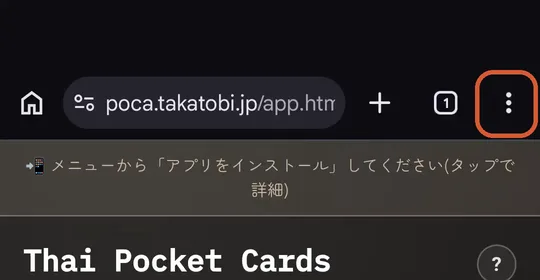
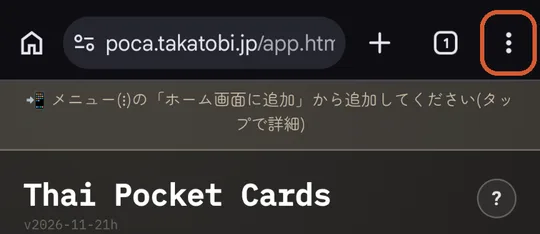
LP: Androidの手順2の画像を新しい案内文の画面に差し替え
Claude-Session: https://claude.ai/code/session_01943EUCWJXEw4xvu6FgakSF

diff --git a/lp.html b/lp.html
@@ -492,7 +492,7 @@ footer .copyright{color:var(--muted-dark);}
       <div class="tab-panel" id="tab-android">
         <div class="steps">
           <div class="step"><div class="step-num">1</div><div class="step-body"><p>ChromeでThai Pocaを開く</p></div></div>
-          <div class="step"><div class="step-num">2</div><div class="step-body"><p>右上のメニュー(︙)をタップ</p><img class="howto-img" src="lp_assets/howto_and_1.webp" width="540" height="280" alt="Chromeの右上のメニューボタン" loading="lazy"></div></div>
+          <div class="step"><div class="step-num">2</div><div class="step-body"><p>右上のメニュー(︙)をタップ</p><img class="howto-img" src="lp_assets/howto_and_1.webp" width="540" height="234" alt="Chromeの右上のメニューボタン" loading="lazy"></div></div>
           <div class="step"><div class="step-num">3</div><div class="step-body"><p>メニューの下のほうにある「ホーム画面に追加」をタップ</p><img class="howto-img tall" src="lp_assets/howto_and_2.webp" width="420" height="667" alt="メニューの「ホーム画面に追加」" loading="lazy"></div></div>
           <div class="step"><div class="step-num">4</div><div class="step-body"><p>「<b>インストール</b>」をタップ<br><span class="howto-small">※「ショートカットを作成」だと、アイコンを押してもChromeで開いてしまいます</span></p><img class="howto-img" src="lp_assets/howto_and_3.webp" width="540" height="360" alt="「インストール」を選ぶ" loading="lazy"></div></div>
           <div class="step"><div class="step-num">5</div><div class="step-body"><p>確認の画面で「インストール」をタップ</p><img class="howto-img" src="lp_assets/howto_and_4.webp" width="540" height="320" alt="確認画面の「インストール」" loading="lazy"></div></div>
